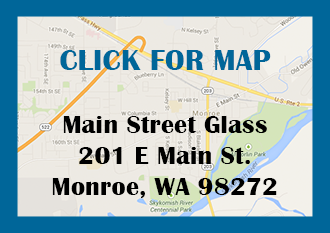
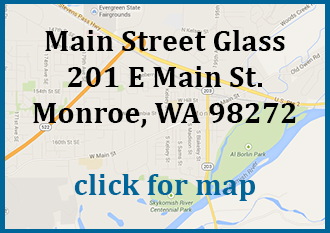
new hours and phone images

diff --git a/mainstreetglass.html b/mainstreetglass.html
@@ -73,9 +73,8 @@
 			</div>
 
 			<div class="row">
-				<div class="small-12 columns blurb">
-					<p>
-						We've been serving the greater Monroe area since 1992. We're excited to be leaving our franchise to better serve our customers in a more personal and flexible way. We have over 30 years experience in the glass business. Call for a free quote!
+				<div class="small-12 medium-10 medium-offset-1 end columns blurb">
+					<p>We've been serving the greater Monroe area since 1992. We're excited to be leaving our franchise to better serve our customers in a more personal and flexible way. We have over 30 years experience in the glass business. Call for a free quote!
 					</p>
 				</div>
 			</div>
@@ -124,7 +123,7 @@
 						<div class="columns small-12 services-list">
 							<ul>
 								<li>Window glass replacement - in vinyl, aluminum and wood windows</li>
-								<li>Patio door glass replacement</li>
+								<li>Patio doorglass replacement</li>
 								<li>Screen repair</li>
 								<li>Mirrors</li>
 								<li>Custom cut glass- table tops, shelving, picture frames</li>
@@ -141,30 +140,23 @@
 
 
 <!-- PARTNER LOCATIONS -->
-		<div class="row">
+		<div class="row partner">
 			<div class="columns small-12">	
 				<div class="row">
-					<div class="columns small-12 medium-11 medium-offset-1 large-10 large-offset-2">
-						- Check out our partners:
+					<div class="columns small-12 medium-offset-3 medium-4 large-4 checkout">
+						Check out our partner in <strong>Marysville</strong>:
 					</div>
-				</div>
-
-				<div class="row">
-					<div class="columns small-12 medium-5 medium-offset-1 large-3 large-offset-2">
-						in <strong>SNOHOMISH</strong><br>
-						<a href="http://www.airportwayserviceglass.com"><i>Airport Way Service Glass</i><br>
-						10201 Airport Way<br>
-						Snohomish, WA 98296<br>
-						(360) 568-7133</a>
+				
+					<div class="columns small-12 medium-2 large-2 end partnerLogo">
+						<a href="http://www.airportwayserviceglass.com/stateavenueglass.html"><img src="images/StateAvenueLogoFinal.png"></a>
 					</div>
 
-					<div class="columns small-12 medium-5 large-3 end">
-						and <strong>MARYSVILLE</strong><br>
-						<a href="http://www.airportwayserviceglass.com/stateavenueglass.html"><i>State Avenue Glass</i><br>
-						9019 State Avenue<br>
-						Marysville, WA 98270<br>
-						(360) 386-9855</a>
+					<div class="columns small-12 medium-3 large-3 partnerContact">
+						<p id="phone"><a href="tel:+13603869855">(360) 386-9855</a><br>
+						9019 State Avenue<br>Marysville, WA 98290
 					</div>
+
+					
 				</div>	
 			</div>
 		</div>

diff --git a/styles_default.css b/styles_default.css
@@ -29,7 +29,7 @@ body {
 .hours {
 	padding-top: 2em;
 	text-align: right;
-	border: solid red 1px;
+	/*border: solid red 1px;*/
 }
 
 #phone {
@@ -37,17 +37,15 @@ body {
 }
 
 .logo {
-	border: solid red 1px;	
+	/*border: solid red 1px;	*/
 }
 
 .logo img{
 	display: block;
 	margin: 0.5em auto;
-	max-height: 200px;
-	min-height: 140px;
-	/*height: 200px;*/
-	/*width: 400px;*/
-	/*border: solid red 1px;	*/
+	max-height: 134px;
+	/*min-height: 134px;*/
+	
 }
 
 #AWSG {
@@ -60,12 +58,13 @@ body {
 }*/
 
 .map-button {
-	border: solid red 1px;
+	/*border: solid red 1px;*/
 	padding-top: 2em;
 }
 
 .map-button img {
 	box-shadow: 1px 1px #626262;
+	max-height: 125px;
 }
 .map-button img:active {
 	position: relative;
@@ -105,7 +104,6 @@ body {
 .blurb {
 	text-indent: 2em;
 	padding-top: 1em;
-	text-align: center;
 }
 
 .blurb p{
@@ -171,7 +169,9 @@ body {
 	padding-right: 0;
 	margin-bottom: 1em;
 	margin-top: 0.75em;
-}
+} 
+  
+
 
 .big-map {
 	height: 450px;
@@ -183,12 +183,26 @@ body {
 	width: 250px;
 }
 
-.partners {
-	font-size: 1.1em;
+.partner {
+	margin-top: 1em;
+}
+
+.checkout {
+	text-align: right;
+}
+
+.partnerLogo img{
+	max-height: 75px;
+	max-width: 300px;
+	text-align: right;
+}
+
+.partnerContact {
+	text-align: left;
 }
 
 .copyright {
 	text-align: center;
 	font-size: 0.8em;
-	margin-top: 1em;
+	margin-top: 1.5em;
 }
